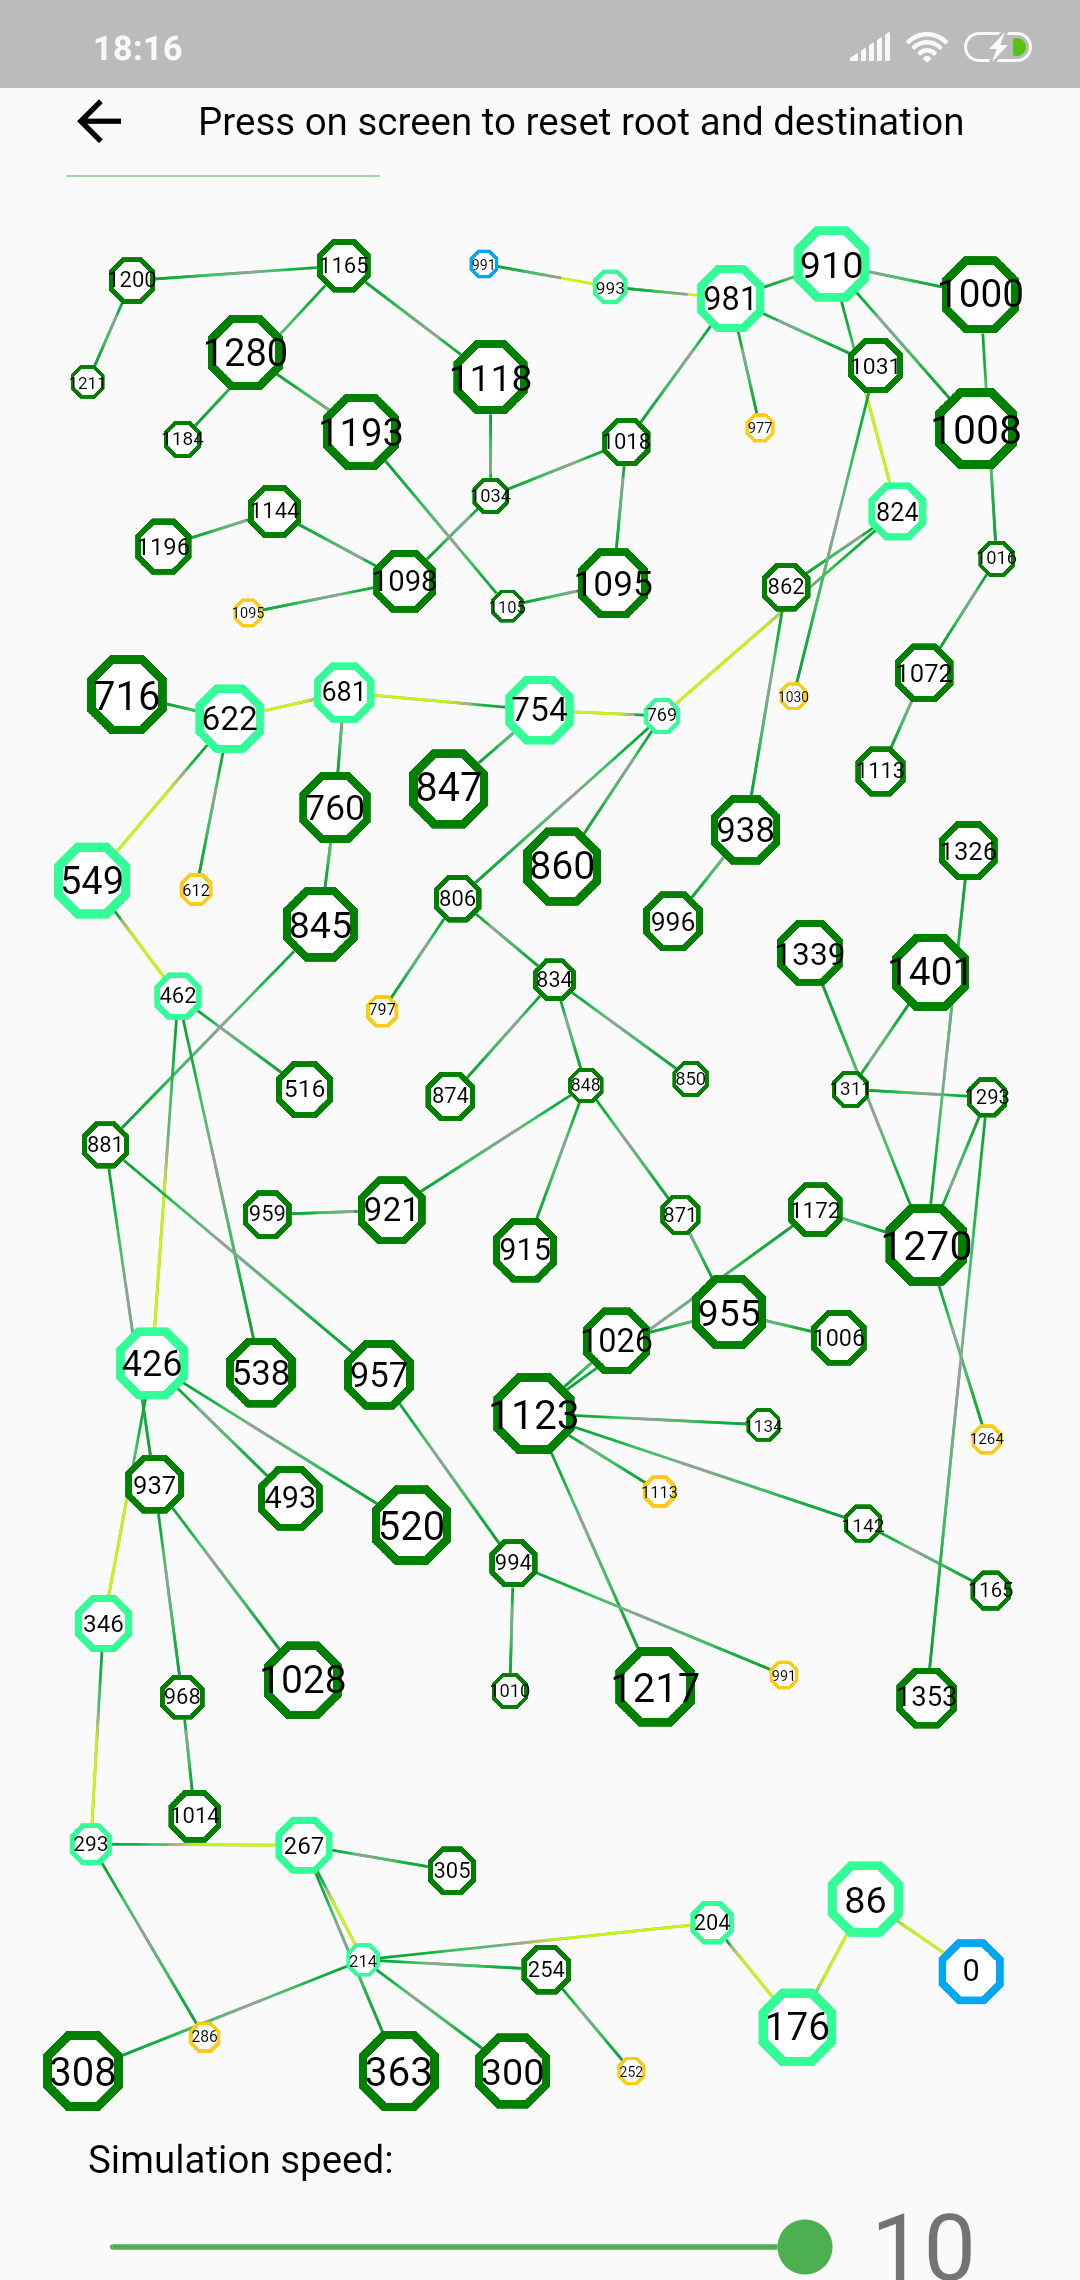
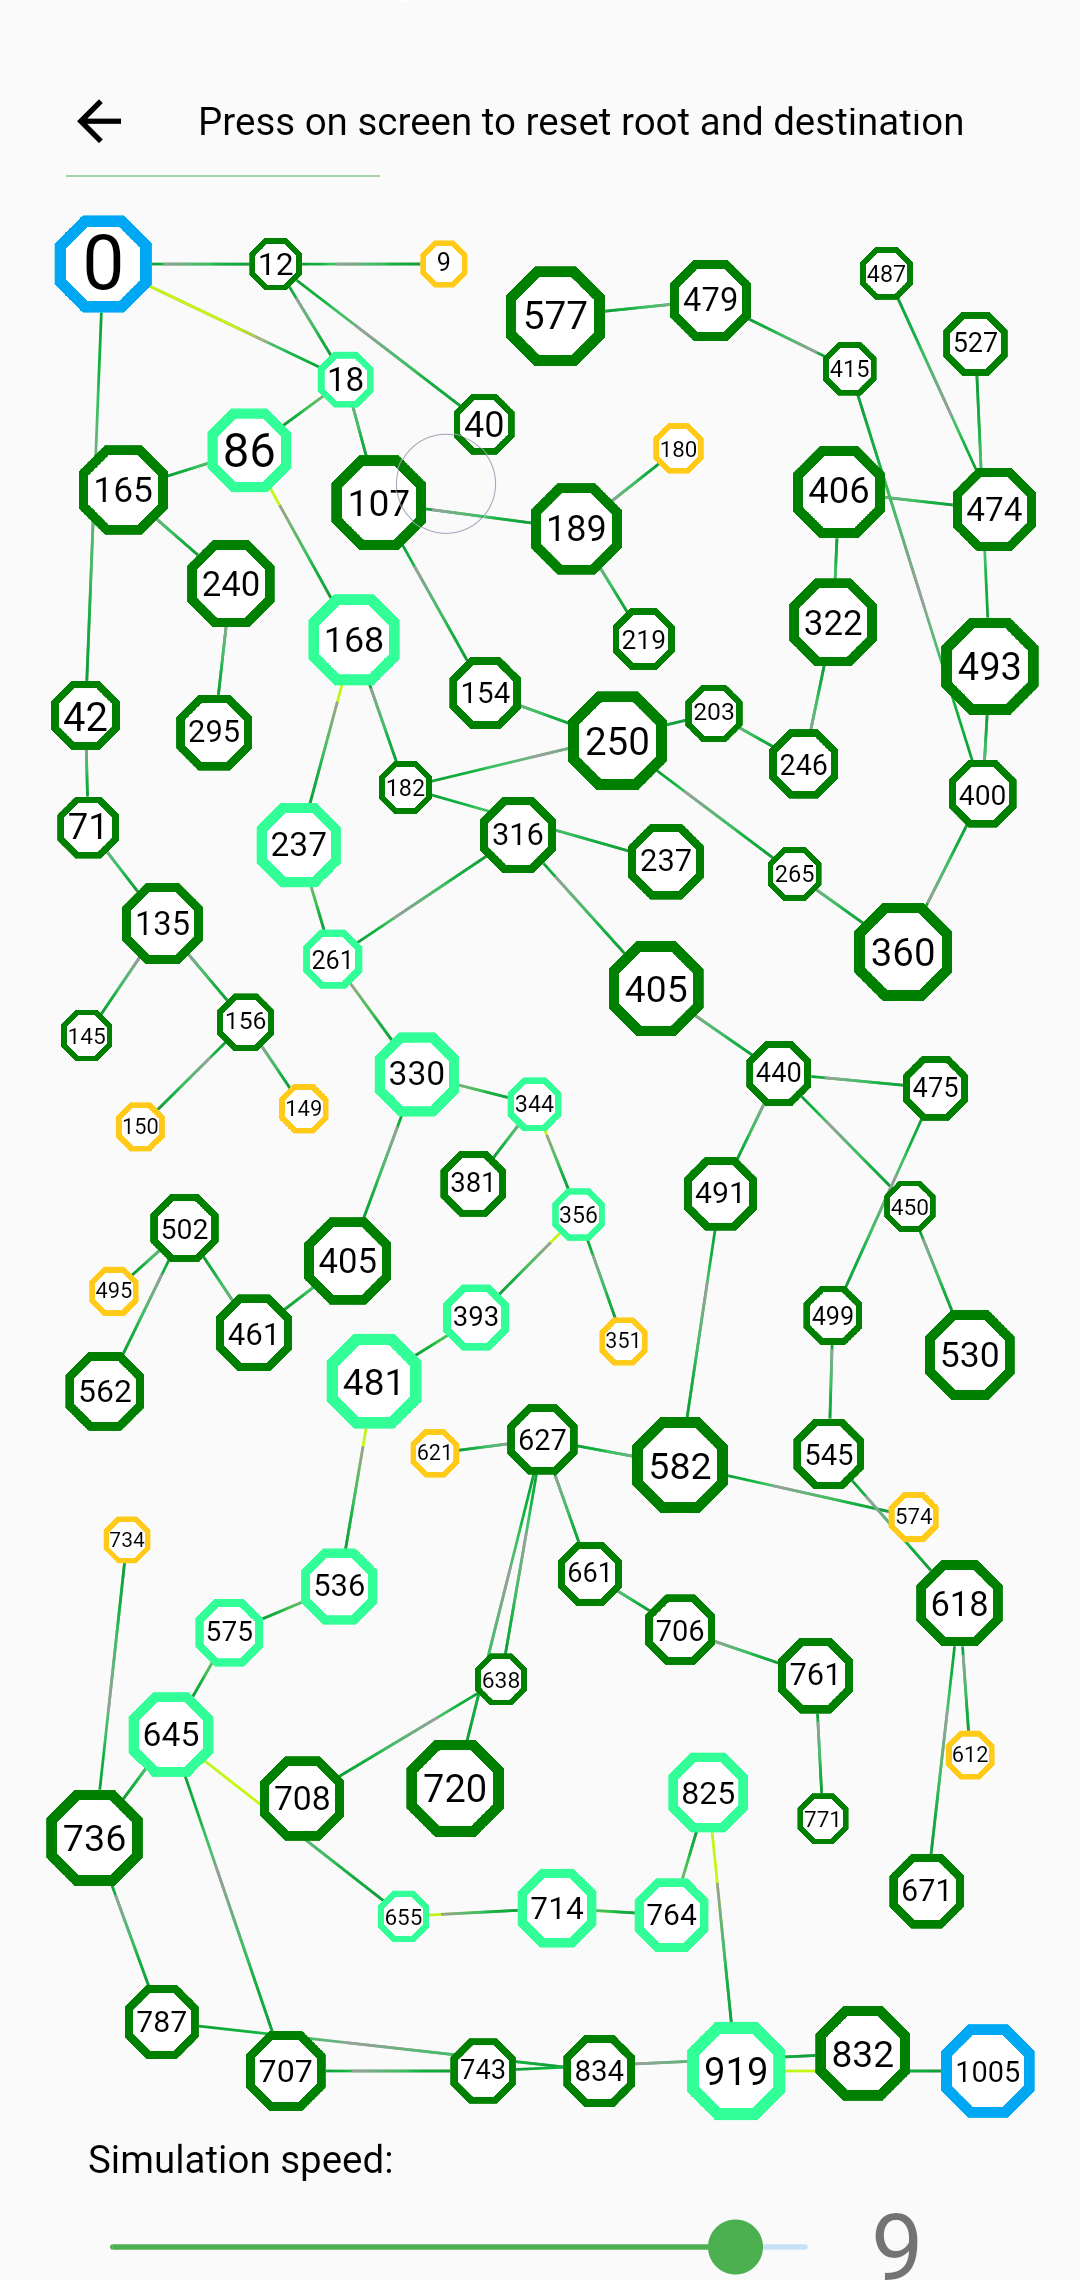
made nodes bigger.. resized text inside node
flame v0.14.0
flutter v1.7.8 + hotfix.2
gradle v5.5 ,android v3.2.1 wrapper

diff --git a/lib/simulation/templateGenerator/graph/node.dart b/lib/simulation/templateGenerator/graph/node.dart
@@ -69,8 +69,8 @@ class Node extends SpriteComponent {
 
     if (visualWeightAfterPathFinding != null) {
       ParagraphBuilder paragraph = new ParagraphBuilder(new ParagraphStyle());
-      paragraph.pushStyle(new TextStyle(color: new Color(0xff000000), fontSize: min(max(8, 10 + weight.abs() / 6 - lesson.nodes / 10), nodeSize / 2)));
-      paragraph.addText(pow(2, 20) == visualWeightAfterPathFinding ? '∞' : visualWeightAfterPathFinding.floor().toString());
+	  paragraph.pushStyle(new TextStyle(color: new Color(0xff000000), fontSize: getFontSize()));
+	  paragraph.addText(pow(2, 20) <= visualWeightAfterPathFinding ? '∞' : visualWeightAfterPathFinding.floor().toString());
 	  Paragraph nodeWeightText = paragraph.build()
 		  ..layout(new ParagraphConstraints(width: 180.0));
 
@@ -78,9 +78,18 @@ class Node extends SpriteComponent {
     }
   }
 
-  @override
-  void update(double t) {
-    //this.angle += nodeSize / (PROPORTIONAL_ROTATION_RATE * DEGREE_TO_RADIAN);
+  double getFontSize() {
+	  return nodeSize / visualWeightAfterPathFinding
+		  .toString()
+		  .length - (visualWeightAfterPathFinding
+		  .toString()
+		  .length == 1 ? 10 : 0) + 2;
+
+	  // return min(
+	  // 	max(
+	  // 		8,
+	  // 		10 + weight.abs() / 6 - (visualWeightAfterPathFinding.toString().length - weight.toString().length) * 2)
+	  // 	, nodeSize / 2 - (visualWeightAfterPathFinding.toString().length - weight.toString().length) * 2 + nodeSize / 10);
   }
 
   void activate() {

diff --git a/lib/simulation/templateGenerator/graph/graph.dart b/lib/simulation/templateGenerator/graph/graph.dart
@@ -54,8 +54,8 @@ class Graph extends TemplateSimulationExecutor {
     } else {
       this.minWeight = 0;
     }
-    this.minNodeSize = 30 - lesson.nodes / 5;
-    this.maxNodeSize = 50 - lesson.nodes / 5;
+	this.minNodeSize = 35 - lesson.nodes / 5;
+	this.maxNodeSize = 55 - lesson.nodes / 5;
     this.proportionalMultiplier = 120 - lesson.nodes; // time to finish loading
     this.outgoingPathsPerNode = new List<int>.filled(lesson.nodes.ceil() + 1, 0, growable: false);
     this.incomingPathsPerNode = new List<int>.filled(lesson.nodes.ceil() + 1, 0, growable: false);
@@ -279,7 +279,7 @@ class Graph extends TemplateSimulationExecutor {
       for (var i = 0; i < nodes.length; i++) {
         var existing = nodes[i];
         double d = pythagoreanTheorem(node, existing);
-        if (d < 1.9 * (maxNodeSize - minNodeSize)) {
+		if (d < (existing.nodeSize + maxNodeSize) / 1.6) {
           overlapping = true;
           break;
         }
